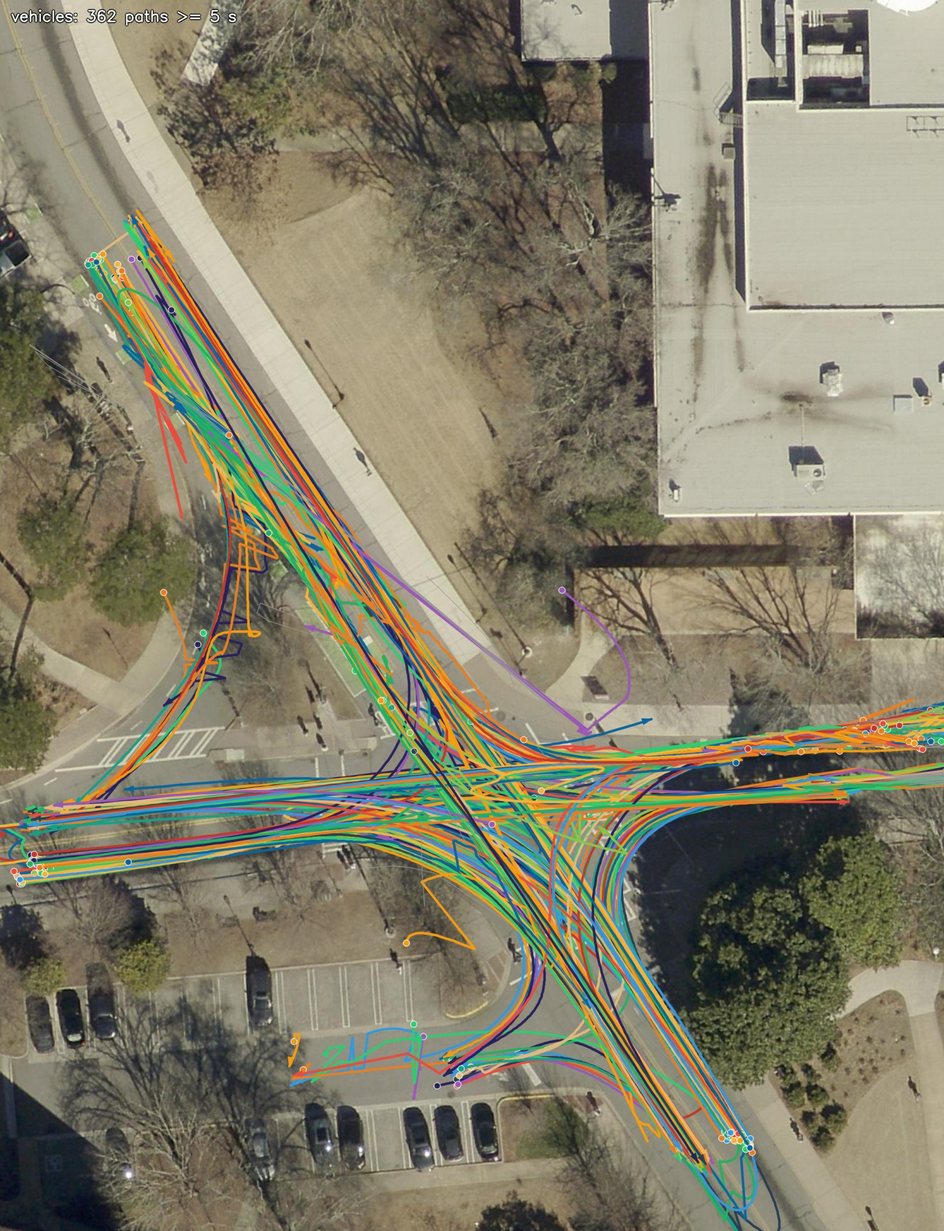
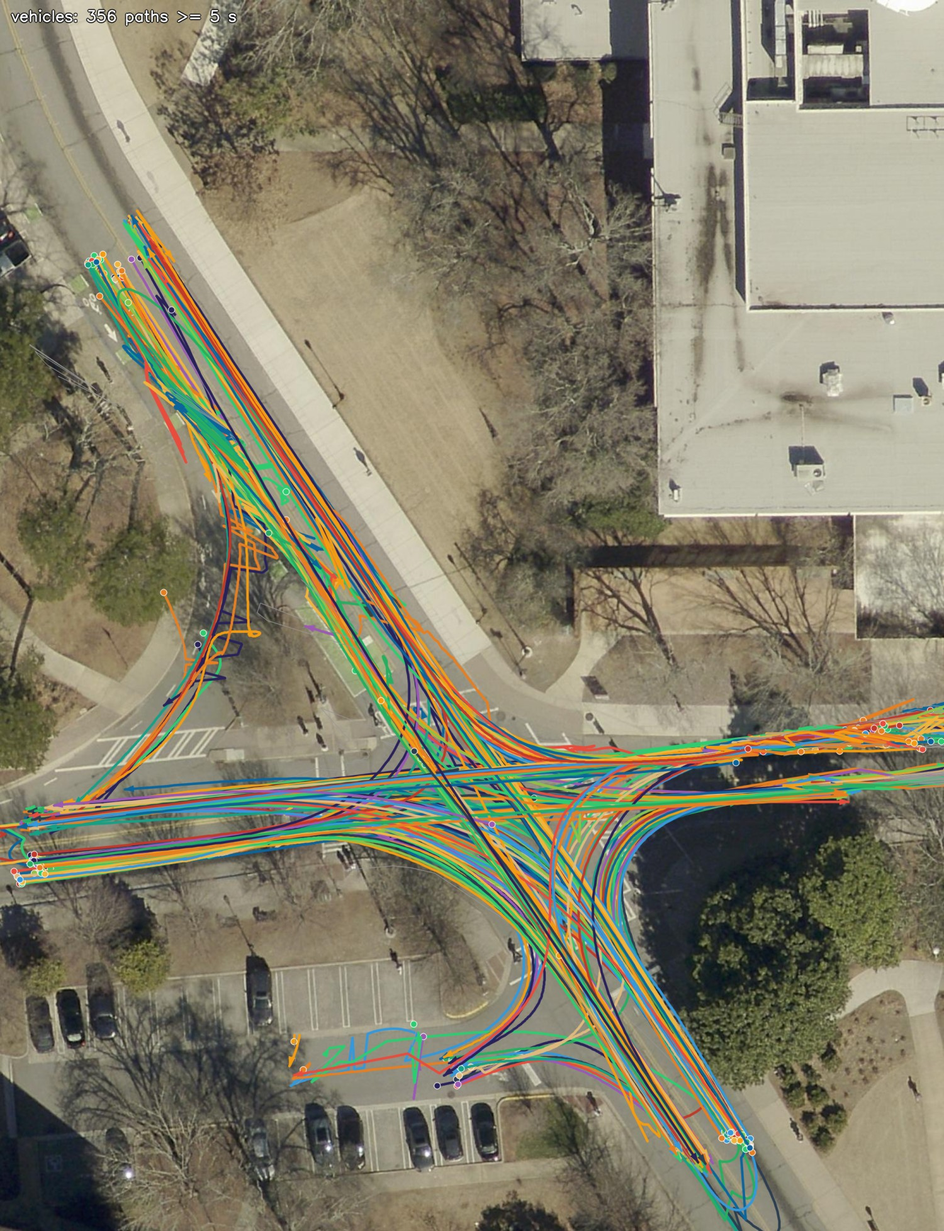
Drop fused rows whose cameras were not looking at one object
A fused row can name several cameras. Taking each one's own ground point
and measuring how far apart they are shows that half of all
multi-camera rows disagree by more than 5 m, and one bus is built from
cam02 at (20.3, 2.8) and cam04 at (-39.9, 30.5), 66 m apart, so the
average lands on a plaza where neither camera ever saw anything.

export_tracks.py now takes --clipdir, recomputes each contributing
camera's position, and drops a row whose cameras disagree by more than
--max-disagree linking gates. Paths are drawn in pieces so a dropped
stretch is a break rather than a straight line across the scene.
Substituting the nearest camera's position was tried first and is worse:
the nearest camera changes, so the path teleports between the two
vehicles.

Over 71 minutes: 31,258 rows dropped, 454 objects lost, vehicle paths
362 -> 356, pedestrians 1986 -> 1948. On the shipped minute, 9 rows.

diff --git a/pipeline/export_tracks.py b/pipeline/export_tracks.py
@@ -70,6 +70,56 @@ def trim_parked(pts, stop_r, stop_s, fps):
     return (i, j) if j > i else None
 
 
+GATE = {"Pedestrian": 1.2, "Bicycle": 1.5, "Motorcycle": 1.5,
+        "Passenger Vehicle": 3.0, "Truck": 5.0, "Bus": 6.0}        # fuse_tracks.py's own linking gate
+
+
+def camera_points(clipdir, cams):
+    """every camera track's own ground point, per frame, for checking the fused average against"""
+    import render_demo as RD
+    out = {}
+    for cam in cams:
+        path = os.path.join(clipdir, cam, "trajectories.csv")
+        if not os.path.exists(path):
+            continue
+        with open(path, newline="", encoding="utf-8") as f:
+            rs = list(csv.DictReader(f))
+        g = RD.Cam(cam, cam + "_fit_pnp").ground([[float(r["foot_x"]), float(r["foot_y"])] for r in rs])
+        for r, p in zip(rs, g):
+            out[(cam, int(r["track_id"]), int(r["frame"]))] = p
+    return out
+
+
+def cameras_disagree(r, cls, cam_pts, mult):
+    """True when the cameras that made this fused row cannot have been looking at one object.
+
+    fuse_tracks.py merges camera tracks with union-find. Each single union is inside its gate, but
+    nothing checks the set that comes out: one object here is built from eight camera tracks and
+    spans 66 m, so its position is the average of two different vehicles and lands where neither
+    ever drove. Over 71 minutes half of all multi-camera rows have their cameras disagreeing by
+    more than 5 m.
+
+    There is no position to rescue in such a row. Taking the nearest camera's own measurement was
+    tried and is worse: the nearest camera changes, so the drawn path teleports between the two
+    vehicles and leaves a straight line across the scene. So the row is dropped, and the path is
+    drawn in pieces, with a break wherever rows are missing.
+    """
+    if not cam_pts or mult <= 0:
+        return False
+    srcs = [q for q in r.get("src", "").split("|") if ":" in q]
+    if len(srcs) < 2:
+        return False
+    pts = []
+    for q in srcs:
+        c, tid = q.rsplit(":", 1)
+        p = cam_pts.get((c, int(tid), int(r["frame"])))
+        if p is not None:
+            pts.append(p)
+    if len(pts) < 2:
+        return False
+    return max(math.dist(a, b) for i, a in enumerate(pts) for b in pts[i + 1:]) > mult * GATE.get(cls, 3.0)
+
+
 BODY = {"Pedestrian": (0.6, 0.5), "Passenger Vehicle": (4.5, 1.9), "Truck": (5.5, 2.1),
         "Bus": (10.5, 2.6), "Motorcycle": (2.0, 0.8), "Bicycle": (1.8, 0.6)}    # metres, length x width
 
@@ -121,6 +171,18 @@ def arrow_head(img, a, b, col, res=0.04):
                                       back - n * (HEAD_HALFW_M / res)], np.int32), col, cv2.LINE_AA)
 
 
+def pieces(os_, mpx, fps, gap_s=1.0):
+    """a path split wherever rows are missing, so a dropped stretch is a break and not a long line"""
+    out, run = [], []
+    for o in os_:
+        if run and o["t_sec"] - run[-1]["t_sec"] > gap_s:
+            out.append(run); run = []
+        run.append(o)
+    if run:
+        out.append(run)
+    return [[mpx(o["E"], o["N"]) for o in seg] for seg in out]
+
+
 def main():
     ap = argparse.ArgumentParser()
     ap.add_argument("--fused", required=True)
@@ -139,6 +201,12 @@ def main():
                     "not traffic at the junction and are dropped")
     ap.add_argument("--min-s", type=float, default=3.0, help="paths shorter than this are drawn grey")
     ap.add_argument("--no-trim", action="store_true")
+    ap.add_argument("--clipdir", default=None,
+                    help="the directory holding <camera>/trajectories.csv; needed for --max-disagree")
+    ap.add_argument("--cams", default="cam02_1019,cam03_1019,cam04_1019")
+    ap.add_argument("--max-disagree", type=float, default=2.0,
+                    help="drop a fused row whose cameras disagree by more than this many linking "
+                         "gates: they were not looking at one object. 0 disables")
     ap.add_argument("--centre-clamp", type=float, default=1.0,
                     help="reject a solved centre further than this many body-reaches from its own "
                          "foot point and use the foot point instead; 0 disables the check")
@@ -179,14 +247,23 @@ def main():
         hh, mm, ss = (float(v) for v in a.start.split(":"))
         t0 = hh * 3600 + mm * 60 + ss
 
-    out_rows, summary, cut, dropped, clamped = [], [], 0, 0, 0
+    cam_pts = camera_points(a.clipdir, a.cams.split(",")) if a.clipdir else {}
+    out_rows, summary, cut, dropped, clamped, split, emptied = [], [], 0, 0, 0, 0, 0
     for gid, rs in sorted(rows.items()):
         cls = rs[0]["cls"]
-        pts = []
+        pts, kept_rs = [], []
         for r in rs:
+            if cameras_disagree(r, cls, cam_pts, a.max_disagree):
+                split += 1
+                continue
             e, n, fell_back = centre_or_foot(r, cls, a.centre_clamp)
             pts.append((int(r["frame"]), e, n))
+            kept_rs.append(r)
             clamped += fell_back
+        if len(pts) < 2:
+            emptied += 1
+            continue
+        rs = kept_rs
         lo, hi = 0, len(rs) - 1
         if cls in VEHICLE and not a.no_trim:
             keep = trim_parked(pts, a.stop_r, a.stop_s, a.fps)
@@ -264,20 +341,24 @@ def main():
         for gid, os_ in sorted(by_gid.items()):
             if (os_[0]["cls"] in VEHICLE) != want:
                 continue
-            p = [mpx(o["E"], o["N"]) for o in os_]
+            segs = pieces(os_, mpx, a.fps)
+            p = [q for seg in segs for q in seg]
             dur = os_[-1]["t_sec"] - os_[0]["t_sec"]
             if dur < a.min_s:
-                cv2.polylines(img, [np.array(p, np.int32)], False, (150, 150, 150), 1, cv2.LINE_AA)
+                for seg in segs:
+                    cv2.polylines(img, [np.array(seg, np.int32)], False, (150, 150, 150), 1, cv2.LINE_AA)
                 continue
             col = PALETTE[gid % len(PALETTE)]
-            cv2.polylines(img, [np.array(p, np.int32)], False, col, 3, cv2.LINE_AA)
+            for seg in segs:
+                cv2.polylines(img, [np.array(seg, np.int32)], False, col, 3, cv2.LINE_AA)
             cv2.circle(img, p[0], 7, col, -1)                      # start
             cv2.circle(img, p[0], 7, (255, 255, 255), 1, cv2.LINE_AA)
-            if len(p) > 2:                                         # which way it was going, at the end
-                k = len(p) - 1
-                while k > 0 and math.dist(p[k], p[-1]) < 3.0 / RES:
+            last = segs[-1]                                        # the arrow belongs to the last piece
+            if len(last) > 2:
+                k = len(last) - 1
+                while k > 0 and math.dist(last[k], last[-1]) < 3.0 / RES:
                     k -= 1
-                arrow_head(img, p[k], p[-1], col, RES)
+                arrow_head(img, last[k], last[-1], col, RES)
             drawn += 1
         label = "%s: %d paths >= %.0f s" % (tag, drawn, a.min_s)
         cv2.putText(img, label, (24, 46), cv2.FONT_HERSHEY_SIMPLEX, 1.1, (0, 0, 0), 5, cv2.LINE_AA)
@@ -286,8 +367,9 @@ def main():
         print("%s: %d paths drawn" % (tag, drawn))
 
     print("%d objects, %d rows written; %d rows cut as standing, %d vehicles dropped as never "
-          "moving; %d diverged centres replaced by their foot point"
-          % (len(summary), len(out_rows), cut, dropped, clamped))
+          "moving; %d diverged centres replaced by their foot point; %d rows dropped and %d objects "
+          "lost entirely because the cameras disagreed"
+          % (len(summary), len(out_rows), cut, dropped, clamped, split, emptied))
 
 
 if __name__ == "__main__":

diff --git a/README.md b/README.md
@@ -13,7 +13,7 @@ measured against a survey-grade GNSS track and a lidar, not estimated.
 pedestrian, one identity each, wherever they are. The whole minute is in
 [`figures/fused_demo.mp4`](figures/fused_demo.mp4).*
 
-## 4,104 road users in 71 minutes
+## 3,677 road users in 71 minutes
 
 ![Vehicle paths over one minute](figures/1min_vehicles.jpg)
 
@@ -30,11 +30,11 @@ from the same afternoon. That recording is not in the repository, only its figur
 
 ![Vehicle paths over 71 minutes](figures/71min_vehicles.jpg)
 
-*362 vehicle paths. The lanes, the turning movements and the bus stops draw themselves.*
+*356 vehicle paths. The lanes, the turning movements and the bus stops draw themselves.*
 
 ![Pedestrian paths over 71 minutes](figures/71min_pedestrians.jpg)
 
-*1,986 pedestrian paths, drawn the same way. This is the point at which lines stop working.*
+*1,948 pedestrian paths, drawn the same way. This is the point at which lines stop working.*
 
 ![Pedestrian presence](figures/71min_density_pedestrians.jpg)
 
@@ -208,28 +208,6 @@ the junction.
 the vehicle has actually moved a couple of metres. A car creeping into a bay keeps whatever heading
 it last had out on the aisle, which is why it is better not to draw it at all than to draw it
 pointing the wrong way.
-
-**A smoothed centre can lose its object.** Each road user carries two positions: the foot point,
-which is measured, and the centre, which a Kalman smoother in `fuse_tracks.py` estimates from it. A
-smoother that loses its object does not stop. On this recording one pedestrian's centre ends 676 m
-away while its own foot point never leaves a 60 m circle, and milder cases of the same thing put a
-car on the footway. So before drawing or exporting anything, a centre further from its own foot
-point than the object's own body is rejected and the foot point used instead. That is the same bound
-the geometric solve already enforces, applied once more to the fused result, and over 71 minutes it
-fires on 7.1% of rows and brings the furthest point in from 646 m to 55 m. It is a guard, not a
-cure: `fused.csv` still contains the diverged centres, and the smoother itself is untouched because
-changing it means re-validating against all three references.
-
-**A few vehicles still start off the road, and that one is not fixed.** A handful of buses enter
-the picture already standing in the trees, then curve onto the carriageway over the next second or
-two. The guard above does not touch these, because it is not the centre that is wrong: the measured
-foot point is itself off the road. A bus 30 m away with its lower body behind a tree has a
-segmentation mask whose bottom edge is too high, and a ray through a point too high in the image
-lands too far away. The fused rows say as much, giving those frames a size consistency of about 0.5
-against 0.75 for the same bus once it is close and clear. Dropping low-consistency detections was
-tried and rejected: at a threshold that moves these starts appreciably it also cuts 3.3% of all
-vehicle rows and empties 50 tracks, most of them fine. The honest fix is in the foot point itself,
-under occlusion, and it has not been done.
 
 **The cameras agree with the map, not with each other.** Each is solved against its own control
 points, so nothing forces two of them to place the same physical point identically. On this
